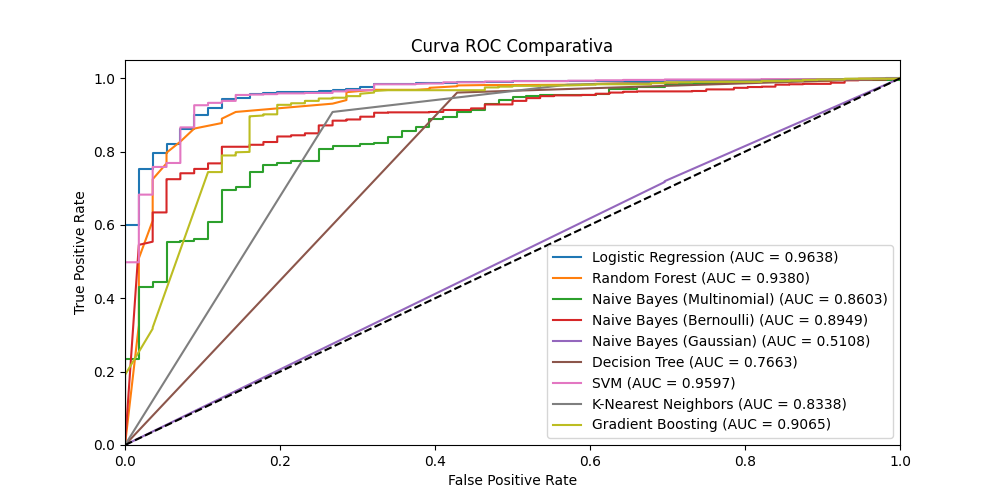
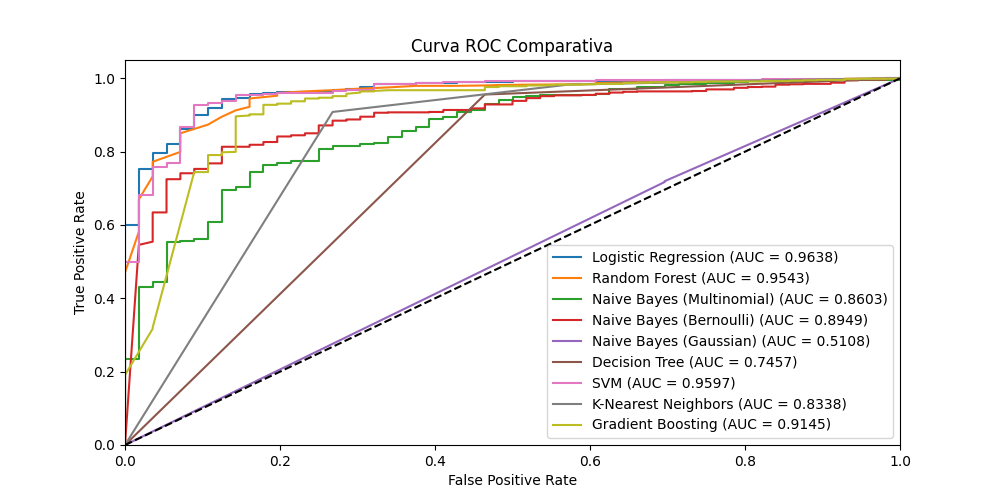
Push Final Final

diff --git a/CODIGOEJECUCIONFINALPROFE/CodigoFinal.py b/CODIGOEJECUCIONFINALPROFE/CodigoFinal.py
@@ -394,6 +394,7 @@ models_3_before = {
     "Naive Bayes (Multinomial)": MultinomialNB(),
     "Naive Bayes (Bernoulli)": BernoulliNB(),
     "Random Forest": RandomForestClassifier(),
+    "Decision Tree": DecisionTreeClassifier(),
 }
 
 # Entrenamiento y evaluación (versión "antes")
@@ -422,13 +423,13 @@ param_grid_3 = {
 }
 
 best_params_3 = {}
-for model_name, model in models_3_before.items():
-    print(f"\nBúsqueda de hiperparámetros para {model_name} (3er dataset)")
-    grid_search_3 = hyperparameter_search(model, param_grid_3[model_name], X_train_3, y_train_3)
-    best_params_3[model_name] = grid_search_3.best_params_
-    print(f"Mejores hiperparámetros para {model_name}:", grid_search_3.best_params_)
-    output_file_3.write(f"Mejores hiperparámetros para {model_name}: {grid_search_3.best_params_}\n")
-
+with open('results_3_before.txt', 'a') as output_file_3:
+    for model_name, model in models_3_before.items():
+        print(f"\nBúsqueda de hiperparámetros para {model_name} (3er dataset)")
+        grid_search_3 = hyperparameter_search(model, param_grid_3[model_name], X_train_3, y_train_3, output_file_3)
+        best_params_3[model_name] = grid_search_3.best_params_
+        print(f"Mejores hiperparámetros para {model_name}:", grid_search_3.best_params_)
+        output_file_3.write(f"Mejores hiperparámetros para {model_name}: {grid_search_3.best_params_}\n")
 # Modelos con los mejores hiperparámetros
 models_3_after = {
     "Logistic Regression": LogisticRegression(max_iter=1000, **best_params_3["Logistic Regression"]),
